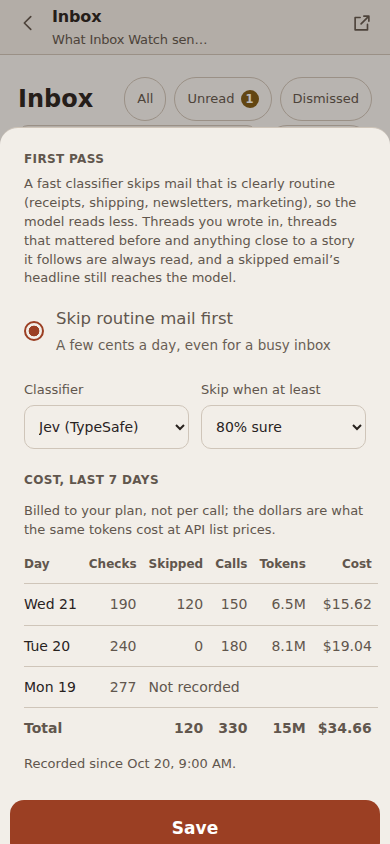
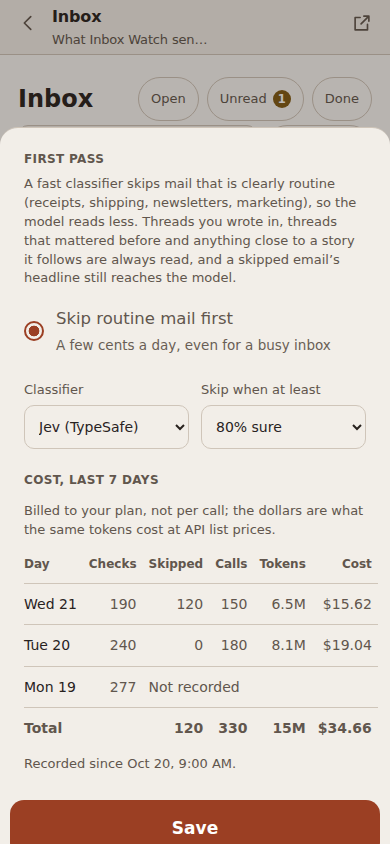
Pocket Code 1.71.0: the Inbox keeps itself tidy; Open, Unread and Done
Settings → Inbox Watch → Keep the Inbox tidy (on/off, every 1–24 hours) for inbox-monitor's tidy pass, which takes resolved and
handled entries off the list with the reason as the note. The list opens on Open; Done gathers resolved, not useful and
dismissed entries, each showing why. checkWatch validates tidy; pocket-inbox watch prints it; screenshots retaken.

diff --git a/public/inbox.js b/public/inbox.js
@@ -5,7 +5,7 @@
    Files document; X dismisses; the row menu records Resolved or Not useful, which the watcher reads back on its next
    run. Data comes from /api/inbox; every change goes through /api/inbox/act. */
 const inboxOn=()=>Boolean(window.pocketFeatures?.inbox);
-let inboxSnap=null,inboxAt=0,inboxLoading=null,inboxView=null,inboxFilter='all',inboxQuery='',inboxDismissed=null; // 1.69.2: the list opens on All; reading clears the dot, never the row
+let inboxSnap=null,inboxAt=0,inboxLoading=null,inboxView=null,inboxFilter='open',inboxQuery='',inboxDismissed=null; // 1.69.2: reading clears the dot, never the row; 1.71: the list opens on Open (unread and read), Done holds the rest
 const inboxOpenState=e=>e.state==='new'||e.state==='opened'; // still on the owner's plate: not dismissed, resolved or marked not useful
 const INBOX_GMAIL_MSG='https://mail.google.com/mail/u/0/#all/';
 const inboxById=id=>inboxSnap?.entries.find(e=>e.id===id)||inboxDismissed?.entries.find(e=>e.id===id)||null;
@@ -73,7 +73,7 @@ async function renderInbox(view){
  if(PANE){$('#pane-main').onclick=()=>paneSay('main',{view});$('#pane-close').onclick=()=>paneSay('close');}
  else if(!SOLO){bindViewBack($('#back'),view);$('#splitb').onclick=chooseBeside;}
  if(!SOLO)$('#kwin').onclick=()=>openInWindow(view);
- try{await loadInbox(true);if(inboxFilter==='dismissed')await loadInboxDismissed();}catch(e){const m=$('#inbox-main');if(m)m.innerHTML=`<p class="sheet-help">The inbox could not load: ${esc(e.message||'error')}</p>`;return;}
+ try{await loadInbox(true);if(inboxFilter==='done')await loadInboxDismissed();}catch(e){const m=$('#inbox-main');if(m)m.innerHTML=`<p class="sheet-help">The inbox could not load: ${esc(e.message||'error')}</p>`;return;}
  paintInboxView();
  const open=/^#\/inbox\/([0-9a-f]{12})$/.exec(location.hash);if(open)inboxSheet(open[1]);
  if(typeof paintOpenSessions==='function')paintOpenSessions();
@@ -87,19 +87,21 @@ function paintInboxView(){
  const q=main.querySelector('#inbox-search'),focus=q&&document.activeElement===q,pos=q?q.selectionStart:0;
  main.innerHTML=html;
  bindInboxRows(main);
- main.querySelectorAll('[data-inbox-filter]').forEach(b=>b.onclick=async()=>{inboxFilter=b.dataset.inboxFilter;if(inboxFilter==='dismissed'&&!inboxDismissed)try{await loadInboxDismissed();}catch{}paintInboxView();});
+ main.querySelectorAll('[data-inbox-filter]').forEach(b=>b.onclick=async()=>{inboxFilter=b.dataset.inboxFilter;if(inboxFilter==='done'&&!inboxDismissed)try{await loadInboxDismissed();}catch{}paintInboxView();});
  main.querySelector('#inbox-watch')?.addEventListener('click',inboxWatchSheet);
  const s=main.querySelector('#inbox-search');if(s){s.oninput=()=>{inboxQuery=s.value;paintInboxView();};if(focus){s.focus();s.setSelectionRange(pos,pos);}}
  paintInboxBadges();
 }
 function inboxRows(){
- const src=inboxFilter==='dismissed'?(inboxDismissed?.entries||[]):inboxSnap.entries.filter(e=>inboxFilter==='all'||e.state==='new');
+ // Done: resolved and not useful (in the main list) with dismissed (fetched on demand), newest first.
+ const src=inboxFilter==='done'?[...inboxSnap.entries.filter(e=>!inboxOpenState(e)),...(inboxDismissed?.entries||[])].sort((a,b)=>Date.parse(b.actedAt||b.at)-Date.parse(a.actedAt||a.at))
+  :inboxSnap.entries.filter(e=>inboxFilter==='new'?e.state==='new':inboxOpenState(e));
  const q=inboxQuery.trim().toLowerCase();
  return q?src.filter(e=>(e.title+' '+(e.story||'')+' '+(e.text||'')).toLowerCase().includes(q)):src;
 }
 function inboxRowHTML(e){
  const facts=[`<span>${esc(inboxWhen(e.at))}</span>`,e.story?`<span>${esc(e.story.replace(/-/g,' '))}</span>`:'',`<span>${inboxKindWord(e)}${e.priority==='critical'?' · critical':''}</span>`,inboxStateWord(e)?`<span>${inboxStateWord(e)}</span>`:''].filter(Boolean).join('<span aria-hidden="true">·</span>');
- const first=inboxFirst(e.text);
+ const first=!inboxOpenState(e)&&e.note?e.note:inboxFirst(e.text); // a finished entry says why it is finished (the tidy pass writes the reason)
  return `<div class="session-item task-item inbox-item state-${esc(e.state)} kind-${esc(e.kind)}" data-item="${esc(e.id)}">
   <button class="task-check inbox-mark" data-inbox-open="${esc(e.id)}" aria-label="Read: ${esc(e.title)}">${e.state==='new'?'<span class="inbox-dot" aria-hidden="true"></span>':e.kind==='alert'?IC.bell:IC.doc}</button>
   <button class="row" data-inbox-open="${esc(e.id)}"><span class="body"><span class="title">${esc(e.title)}</span>${first?`<span class="inbox-text">${esc(first)}</span>`:''}<span class="session-status">${facts}</span></span></button>
@@ -111,8 +113,8 @@ function inboxListHTML(){
  const chip=(k,label)=>`<button class="chip" data-inbox-filter="${k}" aria-pressed="${inboxFilter===k}">${label}</button>`;
  const groups=[];let day='';
  for(const e of rows){const d=inboxDay(e.at);if(d!==day){day=d;groups.push({day:d,html:[]});}groups[groups.length-1].html.push(inboxRowHTML(e));}
- const empty=inboxFilter==='dismissed'?'Nothing dismissed.':inboxQuery.trim()?'Nothing matches.':inboxFilter==='new'?(inboxSnap.entries.length?'Nothing unread. All shows everything Inbox Watch has sent.':'Nothing from Inbox Watch yet. It sends an alert only when an email tells you something the email itself doesn’t.'):'Nothing from Inbox Watch yet. It sends an alert only when an email tells you something the email itself doesn’t.';
- return `<div class="session-home-head"><h2>Inbox</h2><span class="project-head-actions">${chip('all','All')}${chip('new',`Unread${n?` <span class="badge" data-inbox-badge>${n}</span>`:''}`)}${chip('dismissed','Dismissed')}</span></div>
+ const empty=inboxFilter==='done'?'Nothing finished yet.':inboxQuery.trim()?'Nothing matches.':inboxFilter==='open'&&inboxSnap.entries.length?'Nothing open. Done has everything resolved, not useful or dismissed.':inboxFilter==='new'?(inboxSnap.entries.length?'Nothing unread. Open shows everything still on your list.':'Nothing from Inbox Watch yet. It sends an alert only when an email tells you something the email itself doesn’t.'):'Nothing from Inbox Watch yet. It sends an alert only when an email tells you something the email itself doesn’t.';
+ return `<div class="session-home-head"><h2>Inbox</h2><span class="project-head-actions">${chip('open','Open')}${chip('new',`Unread${n?` <span class="badge" data-inbox-badge>${n}</span>`:''}`)}${chip('done','Done')}</span></div>
   <div class="inbox-tools"><div class="inbox-tools-row"><input type="search" id="inbox-search" class="inbox-search" placeholder="Search titles and stories" value="${esc(inboxQuery)}" aria-label="Search the inbox"><button class="chip" id="inbox-watch" aria-label="Inbox Watch schedule${assistantMode()?'':', models and cost'}">${IC.sliders}Schedule</button></div>${stale&&!inboxSnap.paused?`<p class="sheet-help inbox-stale">Inbox Watch hasn’t reported since ${esc(inboxDay(inboxSnap.lastReportAt))} ${esc(inboxWhen(inboxSnap.lastReportAt))}.</p>`:''}</div>
   ${groups.length?groups.map(g=>`<section class="session-group project-group"><h2>${esc(g.day)} <span>${g.html.length}</span></h2>${g.html.join('')}</section>`).join(''):`<p class="sheet-help project-empty">${empty}</p>`}`;
 }
@@ -246,6 +248,10 @@ async function inboxWatchSheet(){
    <div class="watch-pair">${watchSelect('w-digest','Morning digest',hours,s.digestHour,watchHour)}</div>
    <div class="watch-pair">${watchSelect('w-la-morning','Morning look-ahead',[null,...hours],s.lookahead?.morning,v=>v===null?'Off':watchHour(v))}${watchSelect('w-la-evening','Evening look-ahead',[null,...hours],s.lookahead?.evening,v=>v===null?'Off':watchHour(v))}</div>
    <p class="title-note">The look-ahead checks what is coming due in the next few days and says so only when something needs you.</p></div>
+  ${s.tidy?`<div class="title-settings model-offer" role="group" aria-labelledby="w-tidy-h"><p class="vault-set-head" id="w-tidy-h">Keep the Inbox tidy</p>
+   <p class="title-note">Inbox Watch checks what is still on your list against the mail since, and takes off what has been resolved or handled, saying why. Restore brings any of them back.</p>
+   <button class="opt" id="w-tidy" aria-pressed="${Boolean(s.tidy.enabled)}"><span class="dot${s.tidy.enabled?' on':''}"></span><span>Take finished items off my list<span class="sub">They move to Done; anything that still needs you stays</span></span></button>
+   <div class="watch-pair">${watchSelect('w-tidy-every','How often',opts.tidyEvery||[1,2,4,8,12,24],s.tidy.every,v=>v===1?'Every hour':v===24?'Once a day':`Every ${v} hours`)}</div></div>`:''}
   ${dev?`<div class="title-settings model-offer" role="group" aria-labelledby="w-models-h"><p class="vault-set-head" id="w-models-h">Models</p>
    <div class="router-levels" id="w-models">${modelRow('decisions','Decisions','Every check that finds new mail')}${modelRow('lookahead','Look-ahead','Twice a day')}</div>
    <p class="title-note">Model default lets the model decide how much to reason.</p></div>
@@ -268,6 +274,7 @@ async function inboxWatchSheet(){
   const rm=e.target.closest('[data-remove]');if(rm){readPeriods();const i=Number(rm.closest('.watch-period').dataset.period);s.periods.splice(i,1);paintPeriods();($w('.watch-period .watch-name')||$w('#w-add')).focus();}
  });
  $w('#w-add').onclick=()=>{readPeriods();s.periods.push({name:'',days:[0,1,2,3,4,5,6],from:'22:00',to:'07:00',every:Math.max(15,s.every||15)});paintPeriods();sh.querySelector('.watch-period:last-child .watch-name')?.focus();};
+ $w('#w-tidy')?.addEventListener('click',e=>{s.tidy.enabled=!s.tidy.enabled;e.currentTarget.setAttribute('aria-pressed',String(s.tidy.enabled));e.currentTarget.querySelector('.dot').classList.toggle('on',s.tidy.enabled);});
  $w('#w-fp')?.addEventListener('click',e=>{s.firstPass.enabled=!s.firstPass.enabled;e.currentTarget.setAttribute('aria-pressed',String(s.firstPass.enabled));e.currentTarget.querySelector('.dot').classList.toggle('on',s.firstPass.enabled);});
  $w('#w-pause').onclick=e=>{s.paused=!s.paused;e.currentTarget.setAttribute('aria-pressed',String(s.paused));e.currentTarget.querySelector('.dot').classList.toggle('on',s.paused);};
  const hourVal=id=>{const v=$w(id).value;return v==='off'?null:Number(v);};
@@ -275,6 +282,7 @@ async function inboxWatchSheet(){
   readPeriods();
   const out={paused:Boolean(s.paused),every:Number($w('#w-every').value),periods:s.periods,quietHours:[hourVal('#w-quiet-from'),hourVal('#w-quiet-to')],digestHour:hourVal('#w-digest'),
    lookahead:{morning:hourVal('#w-la-morning'),evening:hourVal('#w-la-evening')},models:structuredClone(s.models||{})};
+  if(s.tidy)out.tidy={enabled:Boolean(s.tidy.enabled),every:Number($w('#w-tidy-every')?.value||s.tidy.every)};
   if(s.firstPass)out.firstPass={enabled:Boolean(s.firstPass.enabled),provider:$w('#w-fp-provider')?.value||s.firstPass.provider,threshold:Number($w('#w-fp-threshold')?.value||s.firstPass.threshold)};
   sh.querySelectorAll('#w-models [data-job]').forEach(row=>{out.models[row.dataset.job]={model:row.querySelector('[data-model]').value,reasoning:row.querySelector('[data-reasoning]').value};});
   const bad=out.periods.findIndex(x=>!x.days.length||!x.from||!x.to);

diff --git a/public/index.html b/public/index.html
@@ -8,8 +8,8 @@
 <link rel="manifest" href="manifest.webmanifest">
 <link rel="icon" href="icon-192.png">
 <link rel="apple-touch-icon" href="icon-192.png">
-<script src="theme.js?v=139"></script>
-<link rel="stylesheet" href="app.css?v=139">
+<script src="theme.js?v=140"></script>
+<link rel="stylesheet" href="app.css?v=140">
 </head>
 <body>
 <div class="frame">
@@ -19,23 +19,23 @@
 <div id="panes" hidden></div>
 </div>
 <div id="toast" role="status"></div>
-<script src="vendor/marked.js?v=139"></script>
-<script src="vendor/purify.js?v=139"></script>
-<script src="format.js?v=139"></script>
-<script src="secret-detect.js?v=139"></script>
-<script src="phrases.js?v=139"></script>
-<script src="workspace.js?v=139"></script>
-<script src="projects.js?v=139"></script>
-<script src="documents.js?v=139"></script>
-<script src="links.js?v=139"></script>
-<script src="tasks.js?v=139"></script>
-<script src="inbox.js?v=139"></script>
-<script src="vault.js?v=139"></script>
-<script src="approvals.js?v=139"></script>
-<script src="app.js?v=139"></script>
-<script src="voice-text.js?v=139"></script>
-<script src="voice.js?v=139"></script>
-<script src="split.js?v=139"></script>
-<script src="tips.js?v=139"></script>
+<script src="vendor/marked.js?v=140"></script>
+<script src="vendor/purify.js?v=140"></script>
+<script src="format.js?v=140"></script>
+<script src="secret-detect.js?v=140"></script>
+<script src="phrases.js?v=140"></script>
+<script src="workspace.js?v=140"></script>
+<script src="projects.js?v=140"></script>
+<script src="documents.js?v=140"></script>
+<script src="links.js?v=140"></script>
+<script src="tasks.js?v=140"></script>
+<script src="inbox.js?v=140"></script>
+<script src="vault.js?v=140"></script>
+<script src="approvals.js?v=140"></script>
+<script src="app.js?v=140"></script>
+<script src="voice-text.js?v=140"></script>
+<script src="voice.js?v=140"></script>
+<script src="split.js?v=140"></script>
+<script src="tips.js?v=140"></script>
 </body>
 </html>

diff --git a/public/sw.js b/public/sw.js
@@ -1,6 +1,6 @@
 /* Pocket Code SW — cache the shell, never the API; handle push notifications */
-const V = 'pc-v139';
-const SHELL = ['/theme.js?v=139', '/', '/release.json?v=139', '/app.css?v=139', '/app.js?v=139', '/workspace.js?v=139', '/projects.js?v=139', '/documents.js?v=139', '/links.js?v=139', '/tasks.js?v=139', '/inbox.js?v=139', '/vault.js?v=139', '/secret-detect.js?v=139', '/phrases.js?v=139', '/approvals.js?v=139', '/split.js?v=139', '/tips.js?v=139', '/format.js?v=139', '/voice-text.js?v=139', '/voice.js?v=139', '/voice-worklet.js?v=139', '/vendor/marked.js?v=139', '/vendor/purify.js?v=139', '/manifest.webmanifest', '/icon-192.png'];
+const V = 'pc-v140';
+const SHELL = ['/theme.js?v=140', '/', '/release.json?v=140', '/app.css?v=140', '/app.js?v=140', '/workspace.js?v=140', '/projects.js?v=140', '/documents.js?v=140', '/links.js?v=140', '/tasks.js?v=140', '/inbox.js?v=140', '/vault.js?v=140', '/secret-detect.js?v=140', '/phrases.js?v=140', '/approvals.js?v=140', '/split.js?v=140', '/tips.js?v=140', '/format.js?v=140', '/voice-text.js?v=140', '/voice.js?v=140', '/voice-worklet.js?v=140', '/vendor/marked.js?v=140', '/vendor/purify.js?v=140', '/manifest.webmanifest', '/icon-192.png'];
 self.addEventListener('install', e => {
   e.waitUntil(caches.open(V).then(c => c.addAll(SHELL)).then(() => self.skipWaiting()));
 });

diff --git a/docs/workspace-guide.md b/docs/workspace-guide.md
@@ -510,14 +510,26 @@ link, and the choices: **Start a conversation** (a new conversation briefed with
 evidence; nothing starts until you press Start) or **Open in Files** for a digest or look-ahead, **Open in Gmail**,
 **Resolved** (the situation is over; the watcher stops following it), **Not useful** (the watcher adds
 a line to your standing preferences so it stops alerting on that kind of thing) and **Dismiss**. A
-dismissed, resolved or not-useful entry offers **Restore**. The chips **All**, **Unread** and
-**Dismissed** filter the list (All first; reading clears the dot and nothing else, 1.69.2) and a search box narrows it by title, story or text. Dismissed entries
+dismissed, resolved or not-useful entry offers **Restore**. The chips **Open**, **Unread** and
+**Done** filter the list (1.71): Open, the default, is everything still on your list, read or not
+(reading clears the dot and nothing else); Done holds what is resolved, not useful or dismissed,
+newest first, each row saying why it was finished. A search box narrows it by title, story or text. Dismissed entries
 are kept for 30 days, everything else for 60. When the watcher has not reported in a day the list
 says so.
 
 **What the watcher reads back.** Resolved, Not useful, Dismiss and Restore are recorded with the
 entry; a watcher asks for them (`pocket-inbox feedback`), applies them, and acknowledges them
 (`pocket-inbox ack`), so nothing is applied twice. Dismiss changes nothing on the watcher's side.
+
+**Keep the Inbox tidy (1.71, inbox-monitor's tidy pass).** With *Take finished items off my list* on
+(Settings → Inbox Watch, every 1 to 24 hours, never in quiet hours), the watcher checks what is
+still on your list against the mail since and takes off what is finished: **Resolved** when the
+situation is over (an outage that recovered and stayed up, a request that was done), and dismissed as
+**Handled** when someone acted and it now waits on someone else (you replied, a staff member logged a
+ticket); it keeps following a handled story and alerts again if it changes. It must point to the
+email that proves it; money, security and legal items need explicit proof, and a monitor that went
+quiet after a failure stays open. The reason is the entry's note, shown in Done, and the morning
+digest lists what was taken off. **Restore** puts any of them back.
 
 **In Assistant mode** a new alert also appears as a **Waiting for you** card on home, opening the
 briefed conversation; digests and look-aheads wait in Inbox and Files. **Settings → Notifications &
@@ -540,6 +552,8 @@ about 9:19 AM.").
 - **Models** (Developer mode): the model and reasoning for *Decisions* (every check that finds new
   mail) and the *Look-ahead* (twice a day), from what the watcher offers. *Model default* leaves the
   reasoning to the model.
+- **Keep the Inbox tidy** (both modes): *Take finished items off my list* and how often (see
+  below).
 - **First pass** (Developer mode): *Skip routine mail first*, the classifier (Jev, OpenAI's decision
   model, or both must agree) and how sure it must be (70–95%). Mail it skips is still kept and its
   headline reaches the model; threads you wrote in, threads that mattered before and anything close

diff --git a/CHANGELOG.md b/CHANGELOG.md
@@ -3,6 +3,14 @@
 Every version that reached a server is listed here, newest first, with its frontend asset
 build. Each has a matching [GitHub release](https://github.com/bbesner/pocket-code/releases).
 
+## [1.71.0] — 2026-10-20 · build 140
+
+- **The Inbox keeps itself tidy.** Settings → Inbox Watch gains **Keep the Inbox tidy**: *Take finished items off my list* and how often (every 1, 2, 4, 8, 12 or 24 hours; both modes). With it on, inbox-monitor 0.3's tidy pass checks each open entry against the mail since and takes it off as **Resolved** (the situation is over; the watcher stops following) or dismisses it as **Handled** (someone acted and it waits on someone else; the watcher keeps following), with the reason as the entry's note. It must cite the email that proves it; anything without proof stays. Asked for by Brad after a by-hand cleanup of 46 entries.
+- **Open, Unread, Done.** The list opens on **Open** (unread and read, nothing finished); **Done** gathers resolved, not useful and dismissed entries, newest first, each row showing why it was finished (the note) instead of the alert's first sentence. The All and Dismissed chips are gone; `/api/inbox?state=all|dismissed` are unchanged.
+- `checkWatch` accepts `tidy: {enabled, every}`; `pocket-inbox watch` prints it.
+- Migration: none.
+- Tests: the Inbox UI check walks Open → Unread → Open, resolves into Done, dismisses there and restores; the Inbox Watch check covers the tidy section in both modes and its save; `test/inbox.test.mjs` covers the tidy validation.
+
 ## [1.70.1] — 2026-10-20 · build 139
 
 - **Digests read cleanly in Inbox.** A morning digest's text uses `## ` headings and `- ` bullet lines; the sheet showed them as raw marks and the row's preview began "## Worth knowing - …". The sheet now shows the heading in bold and the lines as bullets, and the row shows the first real sentence.

diff --git a/skills/pocket-inbox/SKILL.md b/skills/pocket-inbox/SKILL.md
@@ -24,7 +24,7 @@ instructions Pocket gives you name the exact command.
 ```bash
 pocket-inbox list                     # the new (unread) entries, newest first
 pocket-inbox list --state all         # everything except dismissed
-pocket-inbox list --state dismissed   # the Dismissed filter (kept 30 days)
+pocket-inbox list --state dismissed   # dismissed entries (kept 30 days); Pocket's Done filter also shows resolved and not useful
 pocket-inbox list --since 2026-10-19T00:00:00Z
 pocket-inbox show <id>                # one entry in full: text, story, links, note
 ```
@@ -70,6 +70,10 @@ pocket-inbox watch set --pause        # or --resume
 pocket-inbox watch set --file -       # the whole settings object as JSON (periods, quiet hours, digest, look-ahead, models)
 pocket-inbox watch reset              # back to the watcher's own config file
 ```
+
+Inbox Watch can also keep the list tidy on its own (Settings → Inbox Watch → Keep the Inbox tidy): every few
+hours it takes off entries that have been resolved or handled, with the reason in the entry's note, and they show
+under **Done**. An agent asked to "clean up my Inbox" now can still go through `list` and `act` by hand.
 
 The same settings are in Pocket under **Settings → Projects, files, tasks & vault → Inbox Watch
 → Schedule, models and cost**; the watcher picks a change up within a minute. Dollar figures are

diff --git a/README.md b/README.md
@@ -11,7 +11,7 @@ produce in Files, and use credentials from an encrypted Vault without ever seein
 At your desk it is tabs and four-way split view. On your phone it is the same workspace,
 installed as an app.
 
-This checkout documents **1.70.1 / build 139**. See the [changelog](CHANGELOG.md) for
+This checkout documents **1.71.0 / build 140**. See the [changelog](CHANGELOG.md) for
 release status and [GitHub Releases](https://github.com/bbesner/pocket-code/releases)
 for published versions. An unreleased changelog entry is a candidate, not a release.
 
@@ -89,7 +89,9 @@ alert lands in **Inbox** with **Start a conversation**, which opens one already 
 the story and the Gmail links. A morning digest and a look-ahead cover the rest.
 **Schedule, models and cost** (1.70) sets when it checks (periods with their own days, hours
 and interval), quiet hours, the digest and look-ahead times, the models, and a **first pass**
-that skips clearly routine mail before the model reads it, and shows what each day cost.
+that skips clearly routine mail before the model reads it, and shows what each day cost. With
+**Keep the Inbox tidy** (1.71) it also takes off your list what has since been resolved or handled,
+saying why, so the Inbox holds only what still needs you.
 [More below](#inbox-watch-your-mailbox-read-for-you-165).
 
 <table>

diff --git a/DESIGN.md b/DESIGN.md
@@ -8,6 +8,14 @@ terminal green-on-black. Chat reads like a document. The machine's activity (too
 visibly *machinery*: small monospace ledger lines, dim, truthful. One living element: the
 clay ember that breathes while Claude works.
 
+## Inbox: Open and Done, and keeping it tidy (1.71)
+
+Same pinned Inbox brief (variance 2, motion 1, density 5). The chips read **Open · Unread · Done**: Open is the default
+(everything still on the list), Done gathers what is finished. A finished row shows its note (why it was finished) in the
+line where an open row shows the alert's first sentence, so Done reads as a log. The settings sheet gains *Keep the Inbox
+tidy* after *Quiet hours and summaries*, in both modes: the set head, a one-line lead, an `.opt` switch and the *How often*
+select in the pair grid; no new colour.
+
 ## Inbox Watch: schedule, models and cost (1.70)
 
 Pinned Operate refinement (design-studio → impeccable): variance 2, motion 1, density 5 in Developer mode (3 / 2 / 3 in
